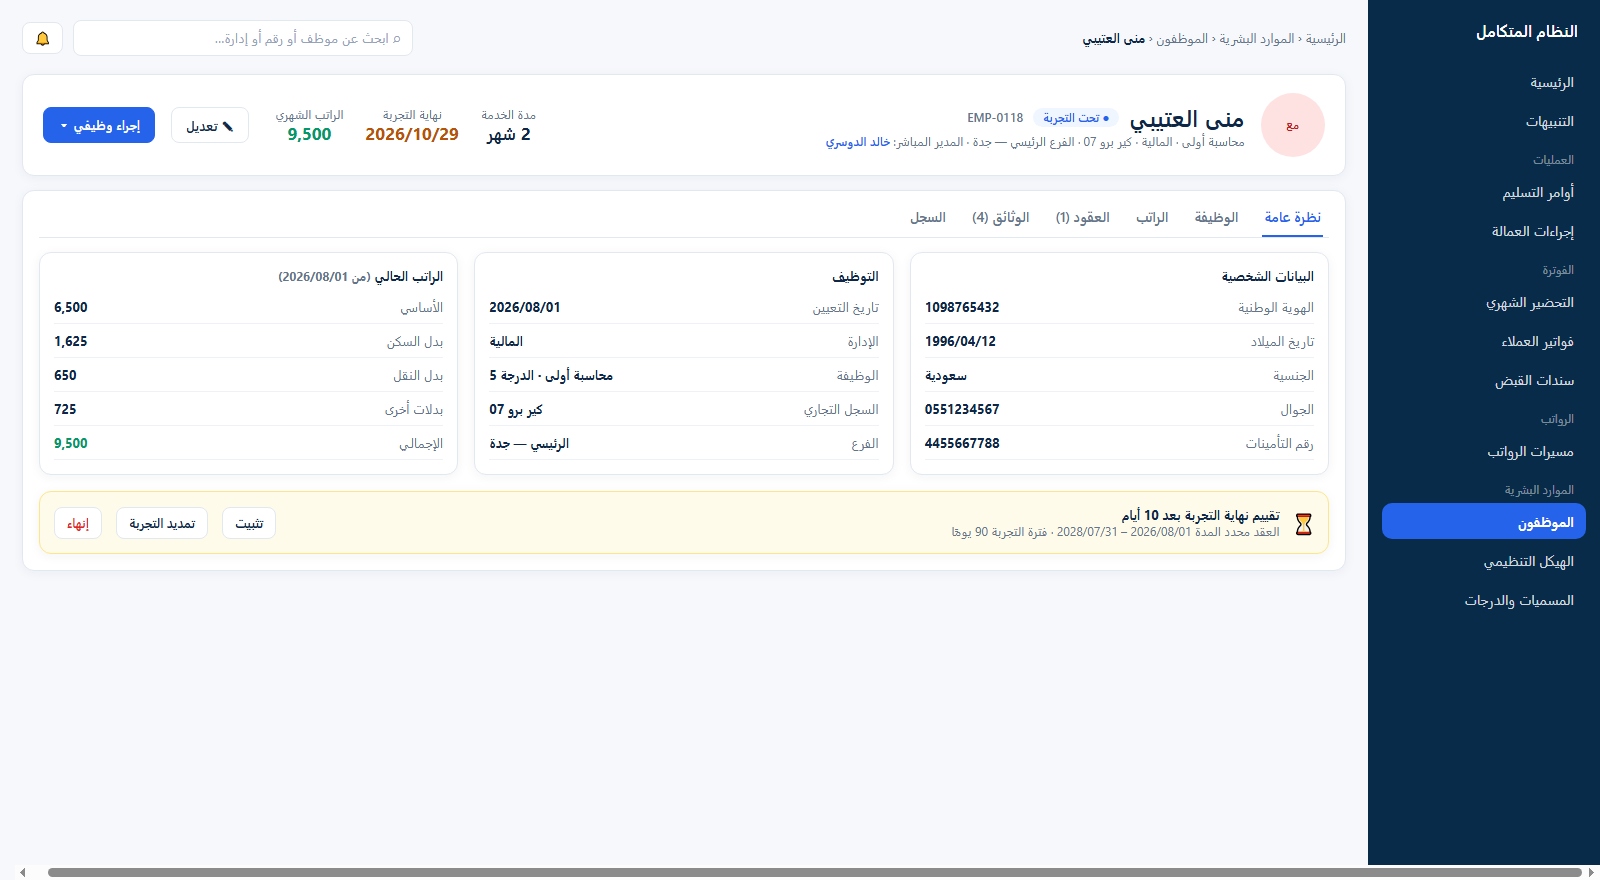
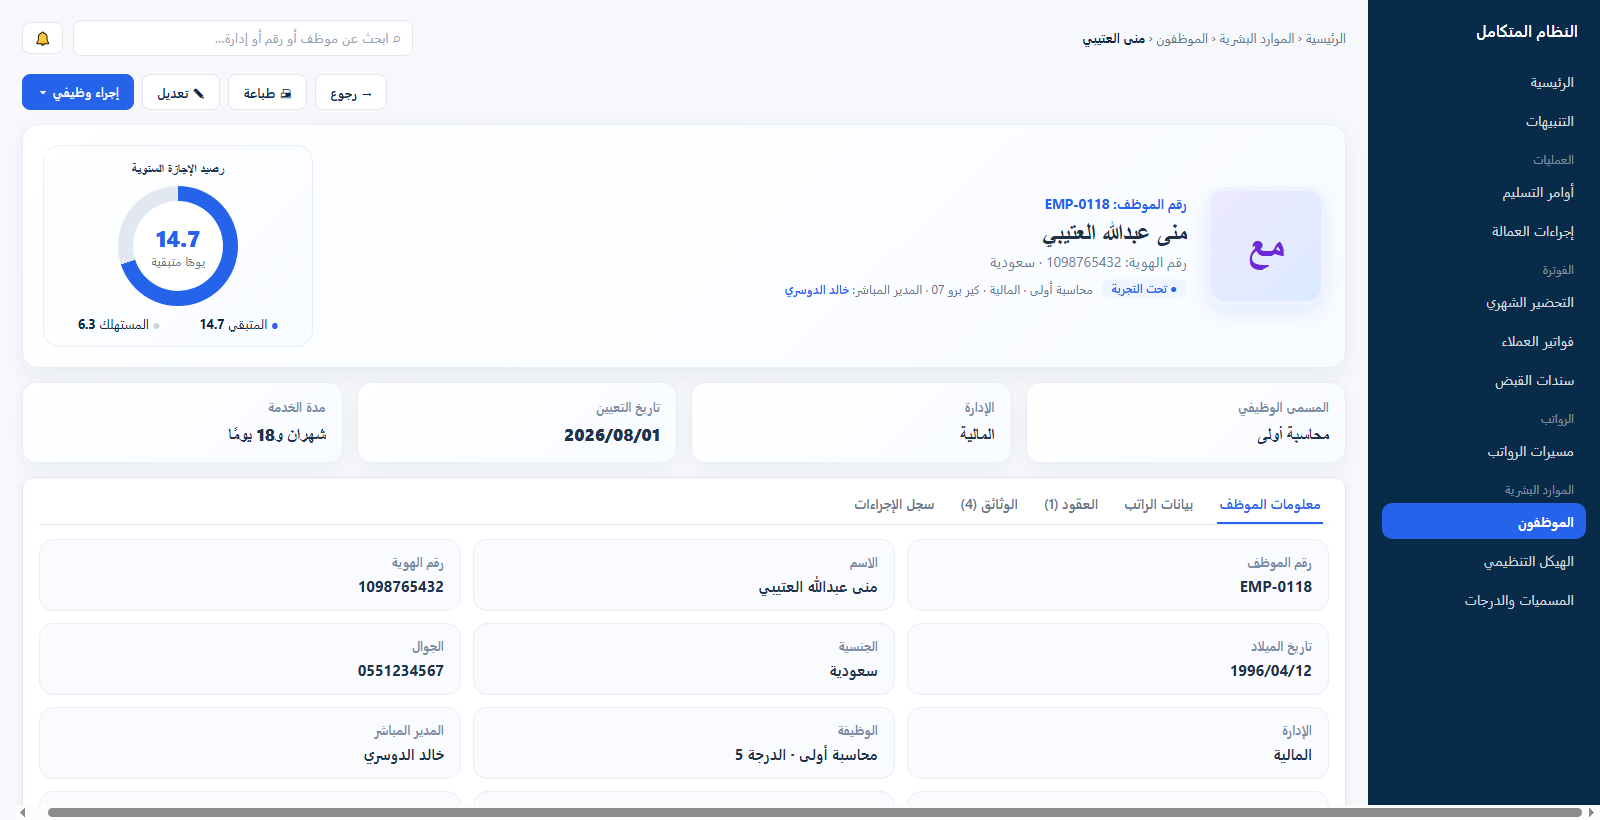
docs: phase 4.4 — the user's answers, and the employee file after the old system's employee screen

diff --git a/docs/03-migration-plan/07-phase-4-4-plan.md b/docs/03-migration-plan/07-phase-4-4-plan.md
@@ -11,7 +11,7 @@
 | الصورة | ما تعرضه |
 |---|---|
 | [wf-staff-directory.png](../02-target-architecture/assets/wf-staff-directory.png) | دليل الموظفين: البطاقات (العدد بالحالة، تحت التجربة، عقود تنتهي، بلا إدارة، شواغر)، والتابات، والفلاتر، والجدول |
-| [wf-staff-profile.png](../02-target-architecture/assets/wf-staff-profile.png) | ملف الموظف: الرأس بالحالة والمدير المباشر، والتابات (نظرة عامة، الوظيفة، الراتب، العقود، الوثائق، السجل)، وتنبيه نهاية التجربة |
+| [wf-staff-profile.png](../02-target-architecture/assets/wf-staff-profile.png) · [الراتب](../02-target-architecture/assets/wf-staff-profile-salary.png) · [السجل](../02-target-architecture/assets/wf-staff-profile-history.png) | ملف الموظف على نمط شاشة الموظف في النظام القديم (`HR_EmployeeDetails`): بطاقة الملف بالصورة ورقم الموظف بالأزرق فوق الاسم ولوحة رصيد الإجازة الدائرية، ثم أربع بطاقات صغيرة، ثم التابات: معلومات الموظف (مربعات عنوان وقيمة)، وبيانات الراتب (بطاقة لكل عنصر بأيقونة ملونة وبطاقة الإجمالي)، والعقود، والوثائق، وسجل الإجراءات (بطاقات زمنية) |
 | [wf-org-structure.png](../02-target-architecture/assets/wf-org-structure.png) | الهيكل التنظيمي: الإدارات ومديروها ومراكز تكلفتها، والملاك الوظيفي بالشاغل والشاغر، وعرض شجري بديل |
 
 الأسماء والأرقام في الرسومات للتوضيح فقط.
@@ -58,8 +58,9 @@
 - الصلاحيات، ومنها إخفاء الرواتب.
 - الاستيراد من Excel بأخطائه.
 
-## 6. أسئلة للمستخدم
-1. **الهيكل التنظيمي:** هل لدى الشركة قائمة بالإدارات والمسميات (Excel أو صورة) نبدأ بها، أم تُدخلها الموارد البشرية من الشاشة؟
-2. **رقم الموظف:** يبقى رقم النظام القديم (`new_empidnumber`)، ويُرقَّم الجديد من شاشة الترقيم؟
-3. **بيانات الموظف بعد الترحيل:** تُعدَّل في النظام الجديد فقط، وتتوقف مزامنتها من النظام القديم إلا الهويات والوثائق؟
-4. **الترتيب:** نبدأ بـ 4.4أ ثم 4.4ب؟
+## 6. قرارات المستخدم (2026-10-19)
+1. **الهيكل التنظيمي:** تُدخله الموارد البشرية من الشاشة.
+2. **رقم الموظف:** يبقى رقم النظام القديم، ويُرقَّم الموظف الجديد من شاشة الترقيم.
+3. **بيانات الموظف بعد الترحيل:** نعمل حاليًا على بيئة الاختبار. يُحسم مصدر البيانات قبل التشغيل الفعلي.
+4. **الترتيب:** 4.4أ ثم 4.4ب.
+5. **تصميم ملف الموظف:** مستوحى من شاشة الموظف في النظام القديم.
